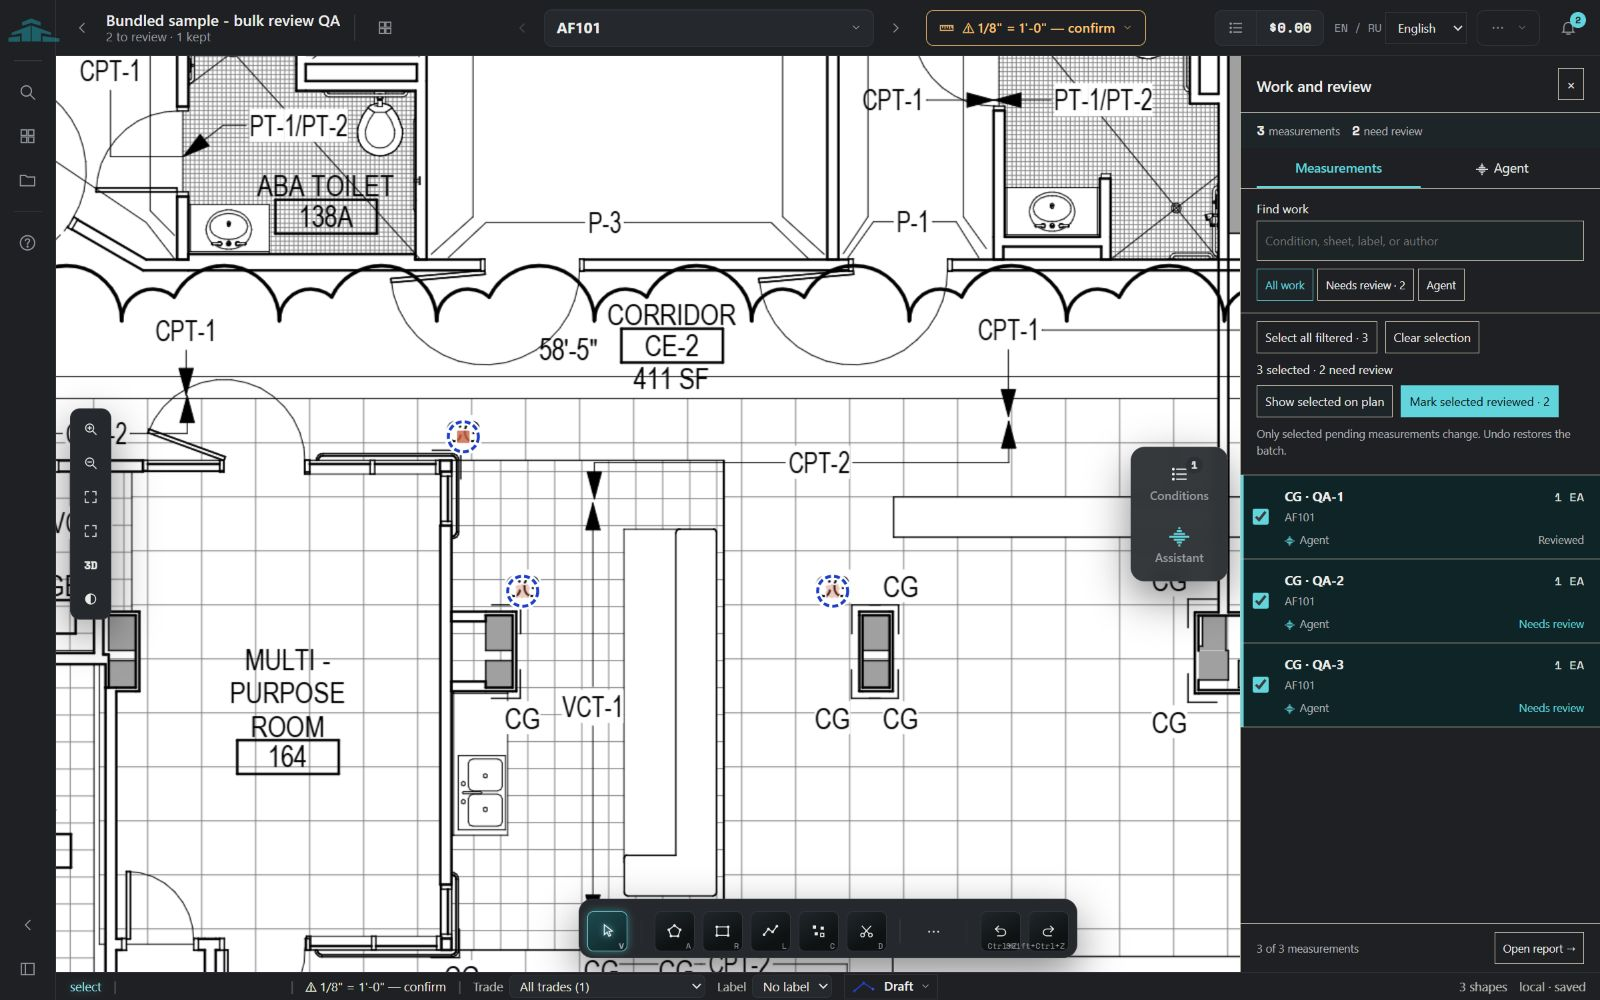
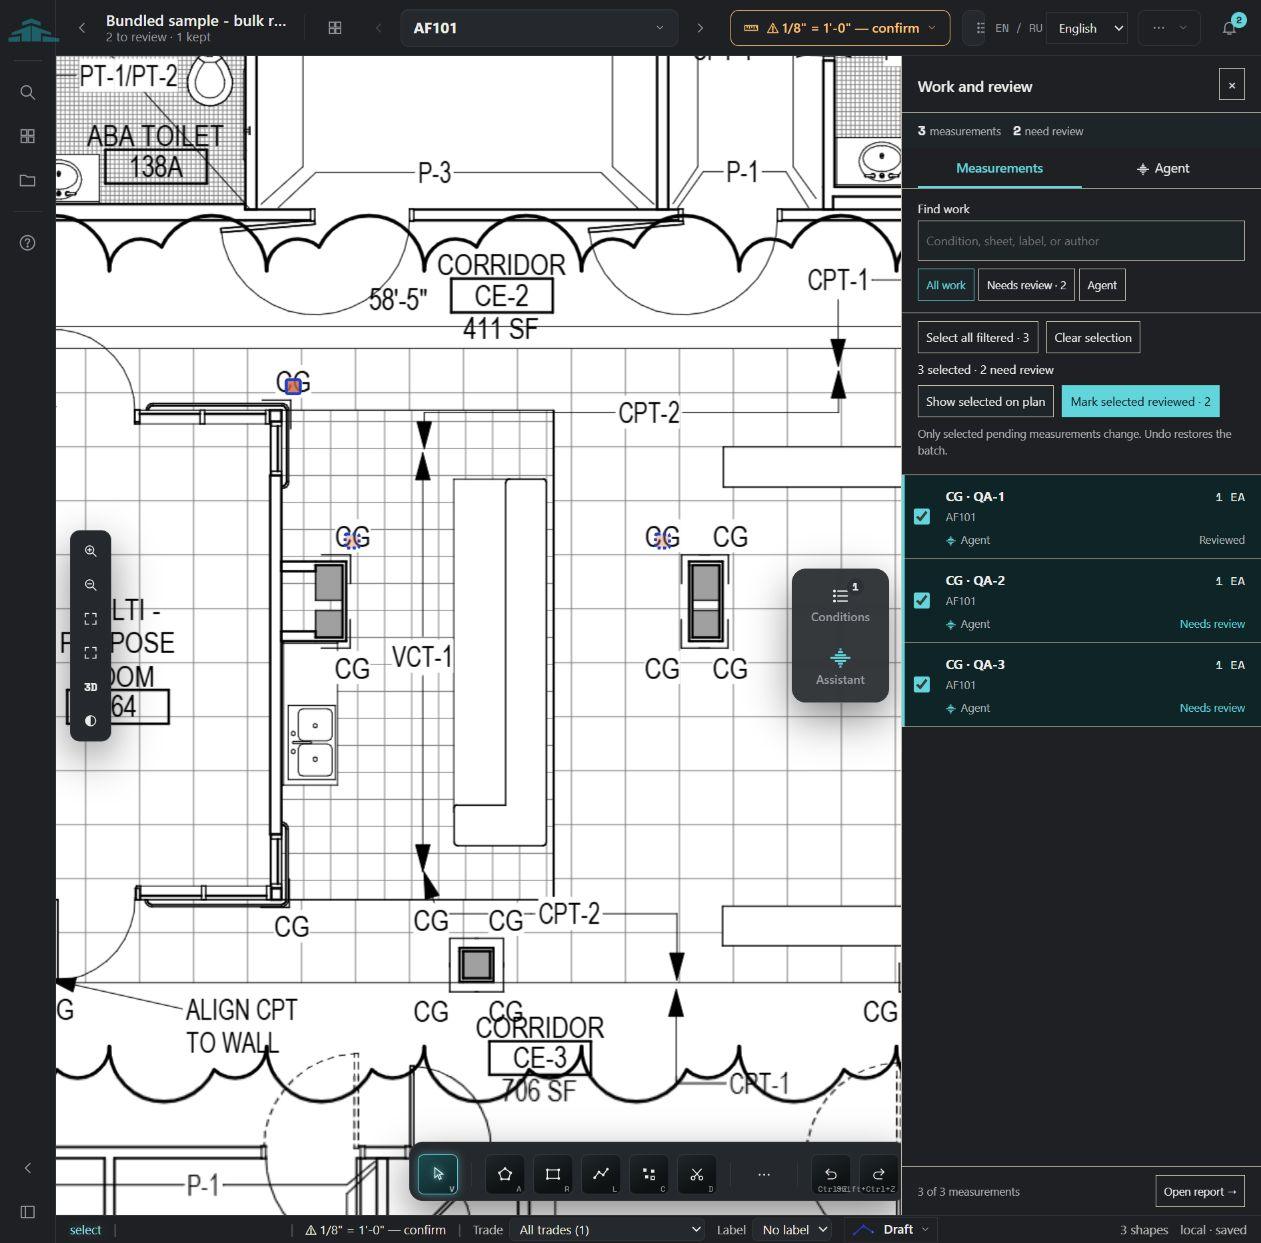
fix(review): inherit native count selection appearance

diff --git a/web/src/pages/TakeoffCanvas.jsx b/web/src/pages/TakeoffCanvas.jsx
@@ -854,6 +854,7 @@ export default function TakeoffCanvas() {
   const [workSelectionIds, setWorkSelectionIds] = useState([]);
   const [workSelectionFrame, setWorkSelectionFrame] = useState(null);
   const selectedWork = useMemo(() => workSelection(shapes, workSelectionIds), [shapes, workSelectionIds]);
+  const selectedCountIds = useMemo(() => new Set(selectedWork.locatable.filter((s) => s.measure_role === "count").map((s) => s.id)), [selectedWork]);
   const workButtonRef = useRef(null);
   // ── roll goods (#136) — view state; the figured layouts are a memo below ──
   const [rollShow, setRollShow] = useState(true);         // draw the figured cuts over the plan (on: opting a condition in shows its cuts immediately)
@@ -11116,10 +11117,16 @@ export default function TakeoffCanvas() {
                         mirror (ReferencePane.jsx) — see that module for the full
                         measure_role switch. `sel`/`DS.selection` only matter when
                         `sel` is true, which never happens on the reference side. */}
-                    {uiText(pShapes.map((s) => renderShapeGlyph(s, {
-                    dn, cond: condById[s.condition_id], sel: s.id === selectedId,
-                    z: tf.scale, darkMode, selection: DS.selection, patId,
-                    })))}
+                  {uiText(pShapes.map((s) => {
+                    // Counts inherit the same glyph and selected appearance in
+                    // single and bulk review; no separate shape is drawn over them.
+                    const bulkCount = selectedCountIds.has(s.id);
+                    const glyph = renderShapeGlyph(s, {
+                      dn, cond: condById[s.condition_id], sel: s.id === selectedId || bulkCount,
+                      z: tf.scale, darkMode, selection: DS.selection, patId,
+                    });
+                    return bulkCount ? <g key={s.id} data-work-selection-id={s.id}>{glyph}</g> : glyph;
+                  }))}
                   {/* vertex handles for the selected shape (drag to reshape) */}
                   {selectedId && (() => {
                     const sel = pShapes.find((s) => s.id === selectedId);

diff --git a/web/src/components/WorkSelectionHighlight.jsx b/web/src/components/WorkSelectionHighlight.jsx
@@ -2,17 +2,15 @@ import { SVG } from "../lib/ui.js";
 import { workSelectionPaths } from "../lib/workSelection.js";
 import { localizeText as uiText } from "../lib/i18n/core.js";
 
-// View-only cue around existing measurements, never an annotation or a count.
+// View-only cue around lines and areas, never an annotation. Counts use the
+// native selected glyph in TakeoffCanvas so their marker geometry cannot drift.
 // Pixel widths are screen-space so selection stays legible at any zoom.
 export default function WorkSelectionHighlight({ shapes, panel, zoom, color }) {
   return <g aria-label={uiText("Selected measurements")} pointerEvents="none">
-    {shapes.filter((shape) => shape.sheet_id === panel.key).map((shape) => {
+    {shapes.filter((shape) => shape.sheet_id === panel.key && shape.measure_role !== "count").map((shape) => {
       const paths = workSelectionPaths(shape, panel);
       let glyph;
-      if (shape.measure_role === "count") {
-        const [cx, cy] = paths[0][0];
-        glyph = <circle cx={cx} cy={cy} r={15 / zoom} />;
-      } else if (["linear", "surface_area"].includes(shape.measure_role)) {
+      if (["linear", "surface_area"].includes(shape.measure_role)) {
         glyph = <polyline points={paths[0].map((p) => p.join(",")).join(" ")} />;
       } else {
         glyph = <path d={paths.map((ring) => `M${ring.map((p) => p.join(",")).join("L")}Z`).join("")} />;

diff --git a/FEATURES.md b/FEATURES.md
@@ -5,7 +5,7 @@ The buildable map: what OpenTakeoff does and exactly where each piece lives, so 
 | Capability | What it does | Where the logic lives |
 |---|---|---|
 | **Personal workspace preview** | Optional compact chrome, searchable actions and sheets, movable side panels, layout locking and named browser-local arrangements; classic remains available | `web/src/components/WorkspaceChrome.jsx`, `WorkspaceLayout.jsx`, `web/src/lib/workspaceLayout.js`; [design](docs/design/PERSONAL_WORKSPACE.md) |
-| **Work and review** | Project-wide measurement list for canvas and imported agent work; search, review filters, cross-sheet boundary navigation, stored provenance and quantities, and undoable per-shape or selected-batch review. Checkboxes, filtered selection and multi-measurement plan highlights reuse existing measurement records. Responsive drawer and an Agent tab; no model connection required to inspect imported work | `web/src/components/WorkspacePanel.jsx`, `web/src/lib/workReview.js`, `workSelection.js`, `WorkSelectionHighlight.jsx`, existing `review` command in `shapeCommands.js`; design in `docs/design/WORKSPACE_REVIEW.md` |
+| **Work and review** | Project-wide measurement list for canvas and imported agent work; search, review filters, cross-sheet boundary navigation, stored provenance and quantities, and undoable per-shape or selected-batch review. Checkboxes, filtered selection and multi-measurement plan highlights reuse existing measurement records; counts share the native single-selection glyph. Responsive drawer and an Agent tab; no model connection required to inspect imported work | `web/src/components/WorkspacePanel.jsx`, `web/src/lib/workReview.js`, `workSelection.js`, `WorkSelectionHighlight.jsx`, existing `review` command in `shapeCommands.js`; design in `docs/design/WORKSPACE_REVIEW.md` |
 | **Ingest** | PDF, image, or `.zip` plan set—unpacked and normalized in-browser; unreadable image entries are skipped individually so later plans still open; multi-page, up to 4 sheets side-by-side | `web/src/lib/ingest.js`, sheet layout in `TakeoffCanvas.jsx` (`panels`, `panelAt`) |
 | **Split-screen reference pane** | A second read-only pane beside the measuring canvas: drag a sheet tab to a screen edge to split (center zone = group as before); the reference frames one sheet at its own pan and zoom with crisp detail tiles and mirrors the primary's committed shapes and markups (clouds, callouts, notes, dimensions, arrows, highlights, captures, stamps) read-only; divider drag, ⟳ orientation flip, ✕ fold-back, persisted layout; 6-sheet live cap, off on narrow viewports and low-memory devices; only the primary pane ever measures | model `web/src/lib/splitView.ts`; shell `web/src/components/SplitLayout.jsx`, pane `ReferencePane.jsx`, drop overlay `DropZoneOverlay.jsx`, read-only shape overlay `shapeGlyphs.jsx`, read-only markup ink `markupGlyphs.jsx` + paint order/scope `lib/markupPaint.ts`; state, gestures and persistence in `TakeoffCanvas.jsx` |
 | **Rendering** | pdf.js raster per sheet + **crisp detail-view**: past ~1.15× zoom the visible region re-renders from vectors at current zoom | render chain + detail-view effect in `TakeoffCanvas.jsx`; pdf.js (`pdfjs-dist`) |

diff --git a/docs/evidence/bulk-select-review/README.md b/docs/evidence/bulk-select-review/README.md
@@ -68,10 +68,17 @@ build at `http://127.0.0.1:5182/`, at 1600 × 1000, 900 × 900 and the default
 
 Machine-readable observations are in [validation.json](validation.json).
 
+The count-shape correction was checked after a full browser reload. The pending
+count's geometry, fill, selected stroke and dash match exactly between individual
+and bulk selection; all three bulk markers use native rectangles. See the actual
+rendered attributes in [count-selection-parity.json](count-selection-parity.json).
+No review action was performed for this visual correction. Updated screenshots
+cover the 1600 × 1000 desktop, 900 × 900 panel and 1261 × 1243 default viewport.
+
+![Individual count selection using the native marker](07-single-count-selection.jpg)
 ![Three selected occurrences and the batch controls](01-selected-desktop.jpg)
 ![Only the two pending entries reviewed](02-batch-reviewed.jpg)
 ![One undo restores the original decisions](03-batch-undone.jpg)
-![All selected occurrences on a narrow canvas](04-selected-narrow.jpg)
 ![Narrow review panel](05-panel-narrow.jpg)
 
 ## Checks
@@ -96,8 +103,10 @@ geometry, multi-sheet offsets, curves, holes and large vertex lists.
 
 - Stored vertices remain normalized per sheet. Framing and SVG highlights map
   them to rendered panel pixels, with existing panel offsets and curve flattening.
-- Selection is temporary. The small count outline is a screen-space cue; it does
-  not change the saved count marker or represent plant spread.
+- Selection is temporary. Counts use the native count glyph's selected appearance
+  for both individual and bulk selection. This branch's native count is a rounded
+  square; there is no separate circular overlay or marker geometry definition.
+  Selection does not change the saved marker or represent plant spread.
 - **Show selected on plan** uses the existing four-sheet display limit. Selections
   beyond that limit show an explanation; use smaller groups for plan review.
 - Only selected records with explicit `origin.reviewed === false` and a usable

diff --git a/CHANGELOG.md b/CHANGELOG.md
@@ -86,6 +86,8 @@ Click **Pin** beside **Sheets** in the top toolbar, then click two corners aroun
 
 ## Unreleased
 
+- **Bulk count selection follows the count marker.** Selecting several counts uses the same glyph and selected appearance as selecting one; it no longer adds a circular highlight around square markers. Measurement records and review decisions are unchanged.
+
 - **Select and review several measurements together.** In **Work and review**, select individual rows or **Select all filtered**, then **Show selected on plan** to highlight and frame the existing measurements. **Mark selected reviewed** uses the existing review command and one-step undo. Quantities and geometry stay unchanged; no new persisted record or review type is introduced.
 
 - **Russian deliverables preserve customer text.** Marked-set PDFs embed Cyrillic fonts and paginate large legends instead of dropping rows. Proposal headers fit long Russian company names, page numbers are localized, and project/company/client text is preserved in proposals, estimates and interface headings. Annotation text stays literal on the canvas. Report filenames retain Cyrillic. Regression tests cover rotated pages, RFI text, 70-condition legends, multi-page proposals and names matching UI commands.

diff --git a/docs/USER_GUIDE.md b/docs/USER_GUIDE.md
@@ -999,8 +999,9 @@ without changing any measurement.
 Click **Show selected on plan** to open and frame the selected measurements on up
 to four sheets. Selected measurements get a temporary outline; hidden conditions
 are revealed and a conflicting trade filter is cleared. Selection outlines are
-not saved or exported. A count's selection outline is screen-sized and does not
-represent a plant's spread or change its marker style.
+not saved or exported. Counts use the same marker geometry and selected
+appearance for individual and bulk selection; selection does not represent a
+plant's spread or change the saved marker style.
 
 Click **Mark selected reviewed** to review only the selected pending measurements.
 Existing decisions, IDs, geometry and quantities stay unchanged. One undo restores
